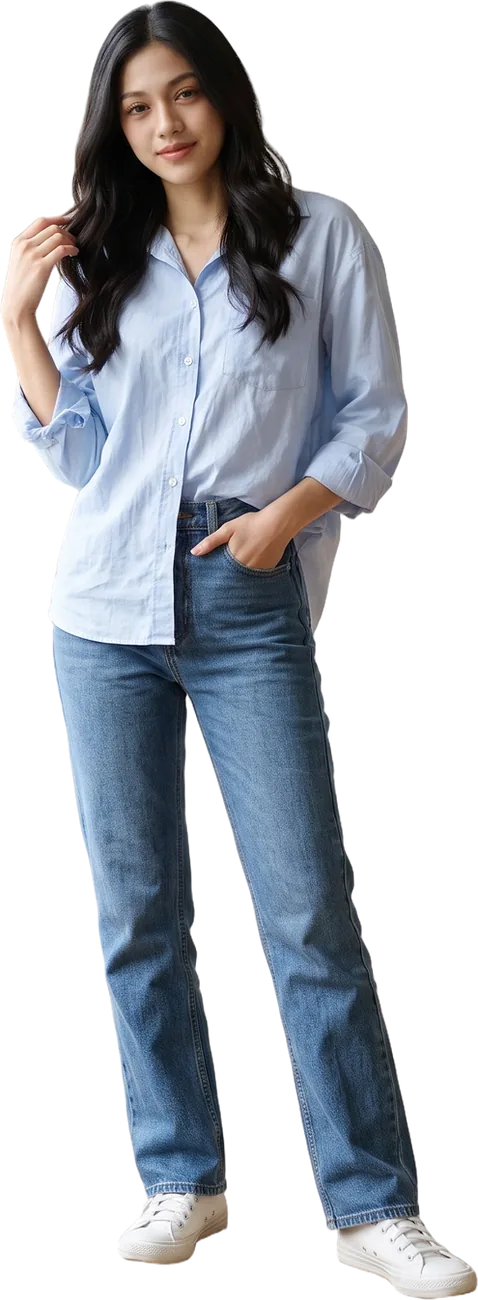
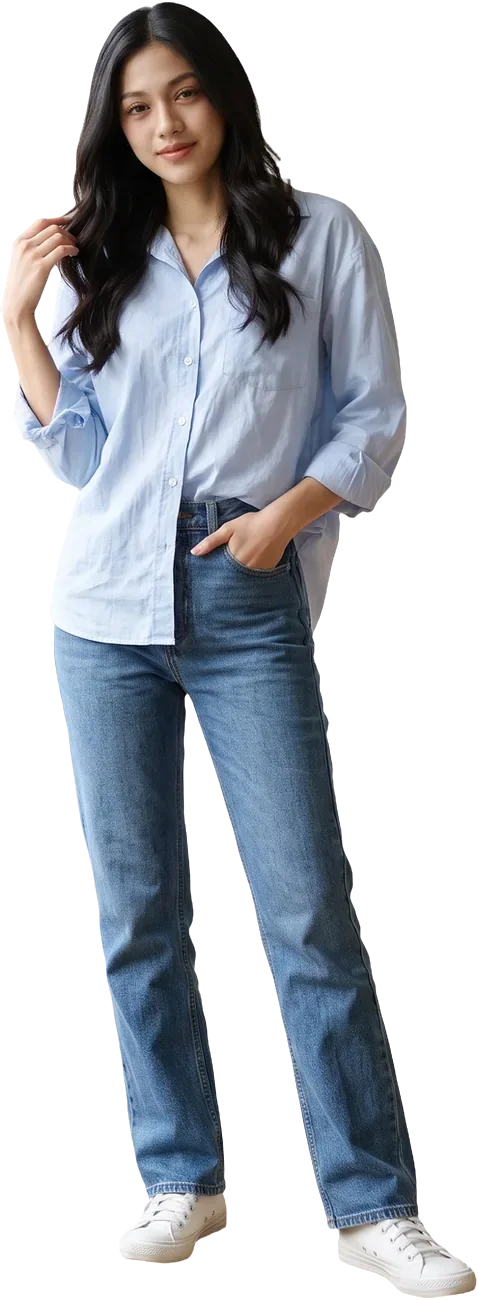
Butik Anggun: rapikan tepi potongan model, ganti bayangan badan jadi bayangan di kaki

diff --git a/butik-anggun/anggun.css b/butik-anggun/anggun.css
@@ -41,7 +41,9 @@ h2 em { font: italic 400 .54em/1 var(--serif); letter-spacing: 0; text-transform
 .pas__latar { position: absolute; inset: 0; }
 .adegan { position: absolute; inset: 0; background: var(--bg); overflow: hidden; }
 .adegan__huruf { position: absolute; left: 50%; top: var(--hurufatas, 14px); transform: translateX(-50%) scaleY(var(--sy, 1)); transform-origin: 50% 0; color: var(--huruf); font: 400 62vw/.86 var(--judul); letter-spacing: .012em; white-space: nowrap; pointer-events: none; }
-.adegan img { position: absolute; left: 50%; bottom: calc(var(--rel) + 6px); width: auto; max-width: none; height: calc(100% - var(--rel) - 18px); transform: translateX(-50%) scale(var(--skala, 1)); transform-origin: 50% 100%; filter: drop-shadow(0 18px 14px rgba(0, 0, 0, .22)); }
+.adegan img { position: absolute; left: 50%; bottom: calc(var(--rel) + 6px); width: auto; max-width: none; height: calc(100% - var(--rel) - 18px); transform: translateX(-50%) scale(var(--skala, 1)); transform-origin: 50% 100%; }
+.adegan::after { content: ""; position: absolute; left: 50%; bottom: calc(var(--rel) - 3px); width: min(40vh, 300px); height: 20px; transform: translateX(-50%); background: radial-gradient(closest-side, rgba(0, 0, 0, .3), transparent); }
+.adegan img { z-index: 1; }
 .pas__kiri, .pas__kanan, .rel { position: relative; z-index: 2; }
 .pas__kiri { display: flex; flex-direction: column; align-items: flex-start; gap: 14px; grid-column: 1; }
 .pas h1 { font: 400 clamp(1.9rem, 2.7vw, 2.7rem)/1.02 var(--serif); }
@@ -80,9 +82,9 @@ h2 em { font: italic 400 .54em/1 var(--serif); letter-spacing: 0; text-transform
 
 /* ---------- berdua ---------- */
 .berdua { --bg: #26372e; --tinta: #fff; display: grid; grid-template-columns: minmax(0, 1.5fr) minmax(320px, 1fr); min-height: calc(100svh - var(--bar)); background: var(--bg); color: var(--tinta); transition: background .5s, color .5s; }
-.berdua__panggung { position: relative; display: flex; align-items: flex-end; justify-content: center; height: calc(100svh - var(--bar)); min-height: 620px; padding-top: 26px; overflow: hidden; }
+.berdua__panggung { position: relative; display: flex; align-items: flex-end; justify-content: center; height: calc(100svh - var(--bar)); min-height: 620px; padding: 26px 0 24px; overflow: hidden; }
 .berdua__huruf { position: absolute; left: 50%; top: 4%; transform: translateX(-50%); color: var(--huruf); font: 400 min(calc(57vw / (var(--n) * .265)), 104vh)/.9 var(--judul); text-transform: uppercase; white-space: nowrap; transition: color .5s; }
-.berdua__panggung img { position: relative; flex: 0 1 50%; width: 50%; min-width: 0; max-width: none; height: 94%; object-fit: contain; object-position: bottom; transform: scale(var(--skala, 1)); transform-origin: 50% 100%; filter: drop-shadow(0 18px 14px rgba(0, 0, 0, .22)); }
+.berdua__panggung img { position: relative; flex: 0 1 50%; width: 50%; min-width: 0; max-width: none; height: 94%; object-fit: contain; object-position: bottom; transform: scale(var(--skala, 1)); transform-origin: 50% 100%; }
 .berdua__panggung img + img { margin-left: -13%; }
 .berdua__panel { display: flex; flex-direction: column; justify-content: center; gap: 16px; padding: 48px var(--tepi); }
 .berdua__pilih { display: flex; flex-wrap: wrap; gap: 6px; }
@@ -224,7 +226,8 @@ h2 em { font: italic 400 .54em/1 var(--serif); letter-spacing: 0; text-transform
   .pas { display: flex; flex-direction: column; height: auto; min-height: 0; padding: 0; }
   .pas__latar { inset: 0 0 auto; height: min(72svh, 590px); }
   .adegan__huruf { --hurufatas: 92px; }
-  .adegan img { bottom: 8px; height: calc(100% - 96px); }
+  .adegan img { bottom: 12px; height: calc(100% - 100px); }
+  .adegan::after { top: calc(min(72svh, 590px) - 22px); bottom: auto; width: 62vw; height: 16px; }
   .pas__kiri { height: min(72svh, 590px); padding: 12px 16px; gap: 6px; }
   .pas h1 { font-size: 1.55rem; }
   .pas__kiri > p { max-width: none; font-size: 1.0625rem; line-height: 1.3; }

diff --git a/butik-anggun/index.html b/butik-anggun/index.html
@@ -9,7 +9,7 @@
 <link rel="preconnect" href="https://fonts.gstatic.com" crossorigin>
 <link href="https://fonts.googleapis.com/css2?family=Six+Caps&family=Bodoni+Moda:ital,opsz,wght@0,6..96,400..600;1,6..96,400..600&family=Jost:wght@400;500;600&display=swap" rel="stylesheet">
 <link rel="icon" href="img/logo-hitam.png" type="image/png">
-<link rel="stylesheet" href="anggun.css?v=2">
+<link rel="stylesheet" href="anggun.css?v=4">
 </head>
 <body>
 <p class="ribbon">Contoh website buatan alvenix. <a href="../">Bikin seperti ini</a></p>
@@ -189,6 +189,6 @@
 <script src="../config.js?v=20261030y"></script>
 <script src="../shared.js?v=20261030f"></script>
 <script src="data.js?v=1"></script>
-<script src="anggun.js?v=2"></script>
+<script src="anggun.js?v=3"></script>
 </body>
 </html>

diff --git a/butik-anggun/anggun.js b/butik-anggun/anggun.js
@@ -8,7 +8,7 @@
   const tulis = (k, v) => { try { localStorage.setItem(k, JSON.stringify(v)); } catch {} };
   const reduce = matchMedia("(prefers-reduced-motion: reduce)").matches;
   const barang = id => KATALOG.find(b => b.id === id);
-  const fotoM = b => `img/m/${b.id}.webp`, fotoF = b => `img/f/${b.id}.webp`, fotoR = b => `img/r/${b.id}.jpg`;
+  const fotoM = b => `img/m/${b.id}.webp?v=2`, fotoF = b => `img/f/${b.id}.webp`, fotoR = b => `img/r/${b.id}.jpg`;
 
   /* ---------- kamar pas ---------- */
   const P = { g: "w", acara: "semua", id: "kebaya", ukuran: "" };
